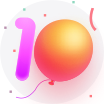
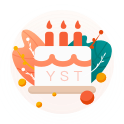
fix:bugfix,添加定时刷新及占位符修改生日祝福缩小图片

diff --git a/config/proxy.ts b/config/proxy.ts
@@ -1,7 +1,7 @@
 /*
  * @Author: your name
  * @Date: 2020-09-02 09:56:09
- * @LastEditTime: 2021-01-07 16:24:32
+ * @LastEditTime: 2021-01-29 15:03:29
  * @LastEditors: xnwang02
  * @Description: In User Settings Edit
  * @FilePath: /yst-iwork-alpha/config/proxy.ts
@@ -42,10 +42,10 @@ export default {
       pathRewrite: { '^/basic-address': '' },
     },
     // sso接口转发
-    '/sso-api': {
+    '/sso': {
       target: 'http://sso-dev.yst.com.cn/sso/',
       changeOrigin: true,
-      pathRewrite: { '^/sso-api': '' },
+      pathRewrite: { '^/sso': '' },
     },
     '/candy': {
       target: 'http://10.213.10.49:8080',
@@ -82,10 +82,10 @@ export default {
       changeOrigin: true,
       pathRewrite: { '^/mock/yst-iwork-alpha-api': '' },
     },
-    '/sso-api': {
+    '/sso': {
       target: 'http://sso-test.yst.com.cn/sso/',
       changeOrigin: true,
-      pathRewrite: { '^/sso-api': '' },
+      pathRewrite: { '^/sso': '' },
     },
     '/candy': {
       target: 'http://10.213.10.49:8080',

diff --git a/src/app.js b/src/app.js
@@ -2,6 +2,7 @@ import Cookies from 'js-cookie';
 import { persistStore, persistReducer } from 'redux-persist';
 import storage from 'redux-persist/es/storage/session';
 import { LoginIn } from '@/api/public';
+import { updateRefreshToken } from '@/services/user';
 
 const persistConfig = {
   key: 'yst-iwork-alpha',
@@ -24,6 +25,15 @@ export const dva = {
   },
 };
 
+// access_token刷新
+setTimeout(() => {
+  updateRefreshToken().then(res => {
+    if (res.success) {
+      Cookies.set('access_token', res.data.access_token)
+      Cookies.set('refresh_token', res.data.refresh_token)
+    }
+  })
+}, 1.5 * 60 * 60 * 1000)
 /**
  *
  * ###### @params  oldRender 表示原来的render方法
@@ -53,6 +63,8 @@ export async function render(oldRender) {
       ],
     },
   ];
+
+
 
   // 根据配置 是否使用本地权限
   const tenant_code = Cookies.get('tenant_code');

diff --git a/src/services/user.ts b/src/services/user.ts
@@ -3,6 +3,7 @@ import Cookies from 'js-cookie';
 import { API_PREFIX } from '@/constants/common';
 
 const accessToken = Cookies.get('access_token');
+const refreshToken = Cookies.get('refresh_token');
 
 export async function query(): Promise<any> {
   return request(`${API_PREFIX}/users`);
@@ -16,4 +17,9 @@ export async function queryCurrent(): Promise<any> {
 
 export async function queryNotices(): Promise<any> {
   return request(`${API_PREFIX}/notices`);
+}
+export async function updateRefreshToken(): Promise<any> {
+  return request(`/oauth2/refreshToken?client_id=${REACT_APP_SSO_CLIENT_ID}&refresh_token=${refreshToken}&grant_type=refresh_token`, {
+    prefixType: 'sso',
+  });
 }

diff --git a/config/env.config.ts b/config/env.config.ts
@@ -15,7 +15,7 @@ function getConfig(name: String) {
 
   const currentEnvDomainFlag = name === 'prod' ? '' : `-${name}`;
   // sso配置
-  envConfig.REACT_APP_SSO_API = '/sso-api/';
+  envConfig.REACT_APP_SSO_API = '/sso/';
   envConfig.REACT_APP_SSO_DOMAIN = `sso${currentEnvDomainFlag}.yst.com.cn`;
   envConfig.REACT_APP_SSO_SDK_PATH = `//sso${currentEnvDomainFlag}.yst.com.cn/open-api/oauth_sdk.js`;
   envConfig.REACT_APP_SSO_CLIENT_PATH = `//sso${currentEnvDomainFlag}.yst.com.cn/open-api/oauth_client.js`;
